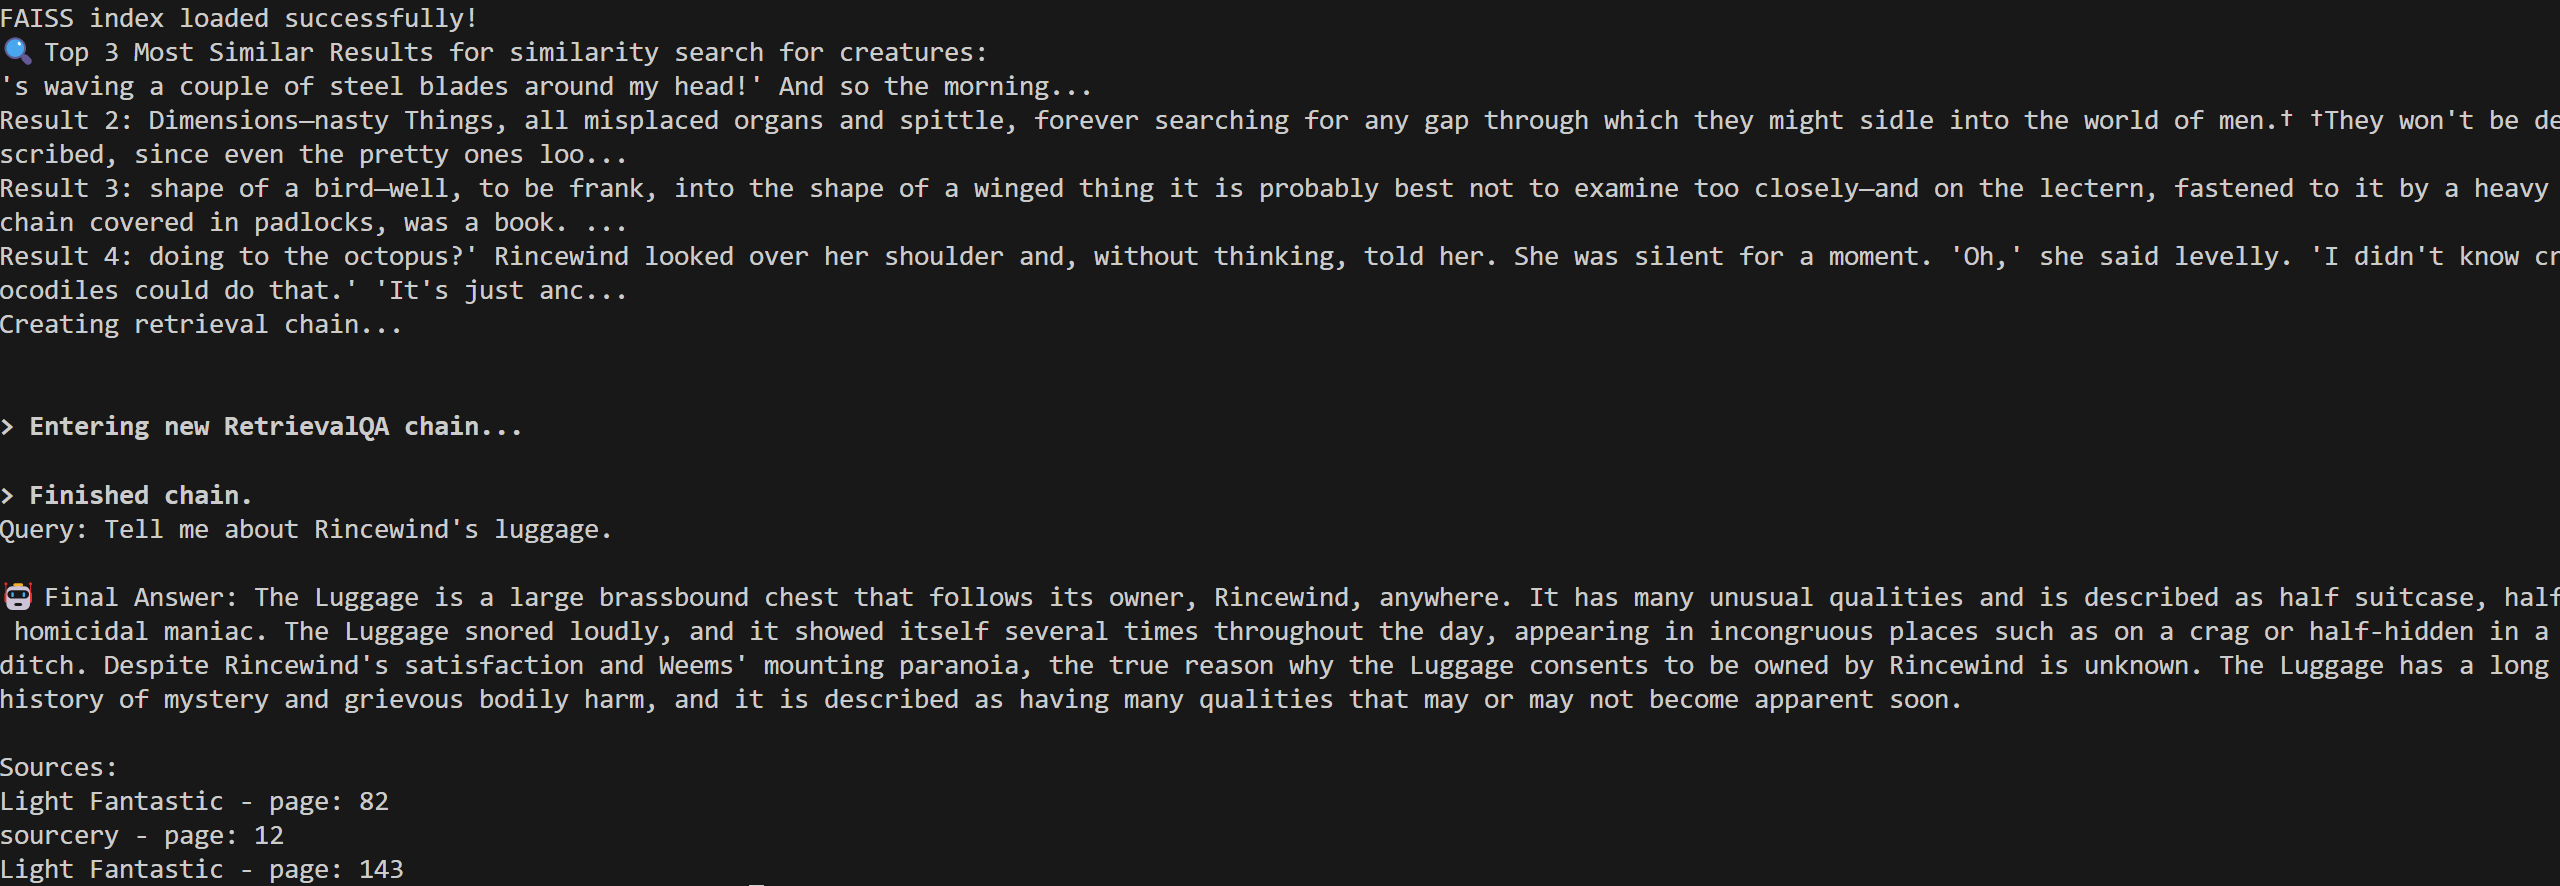
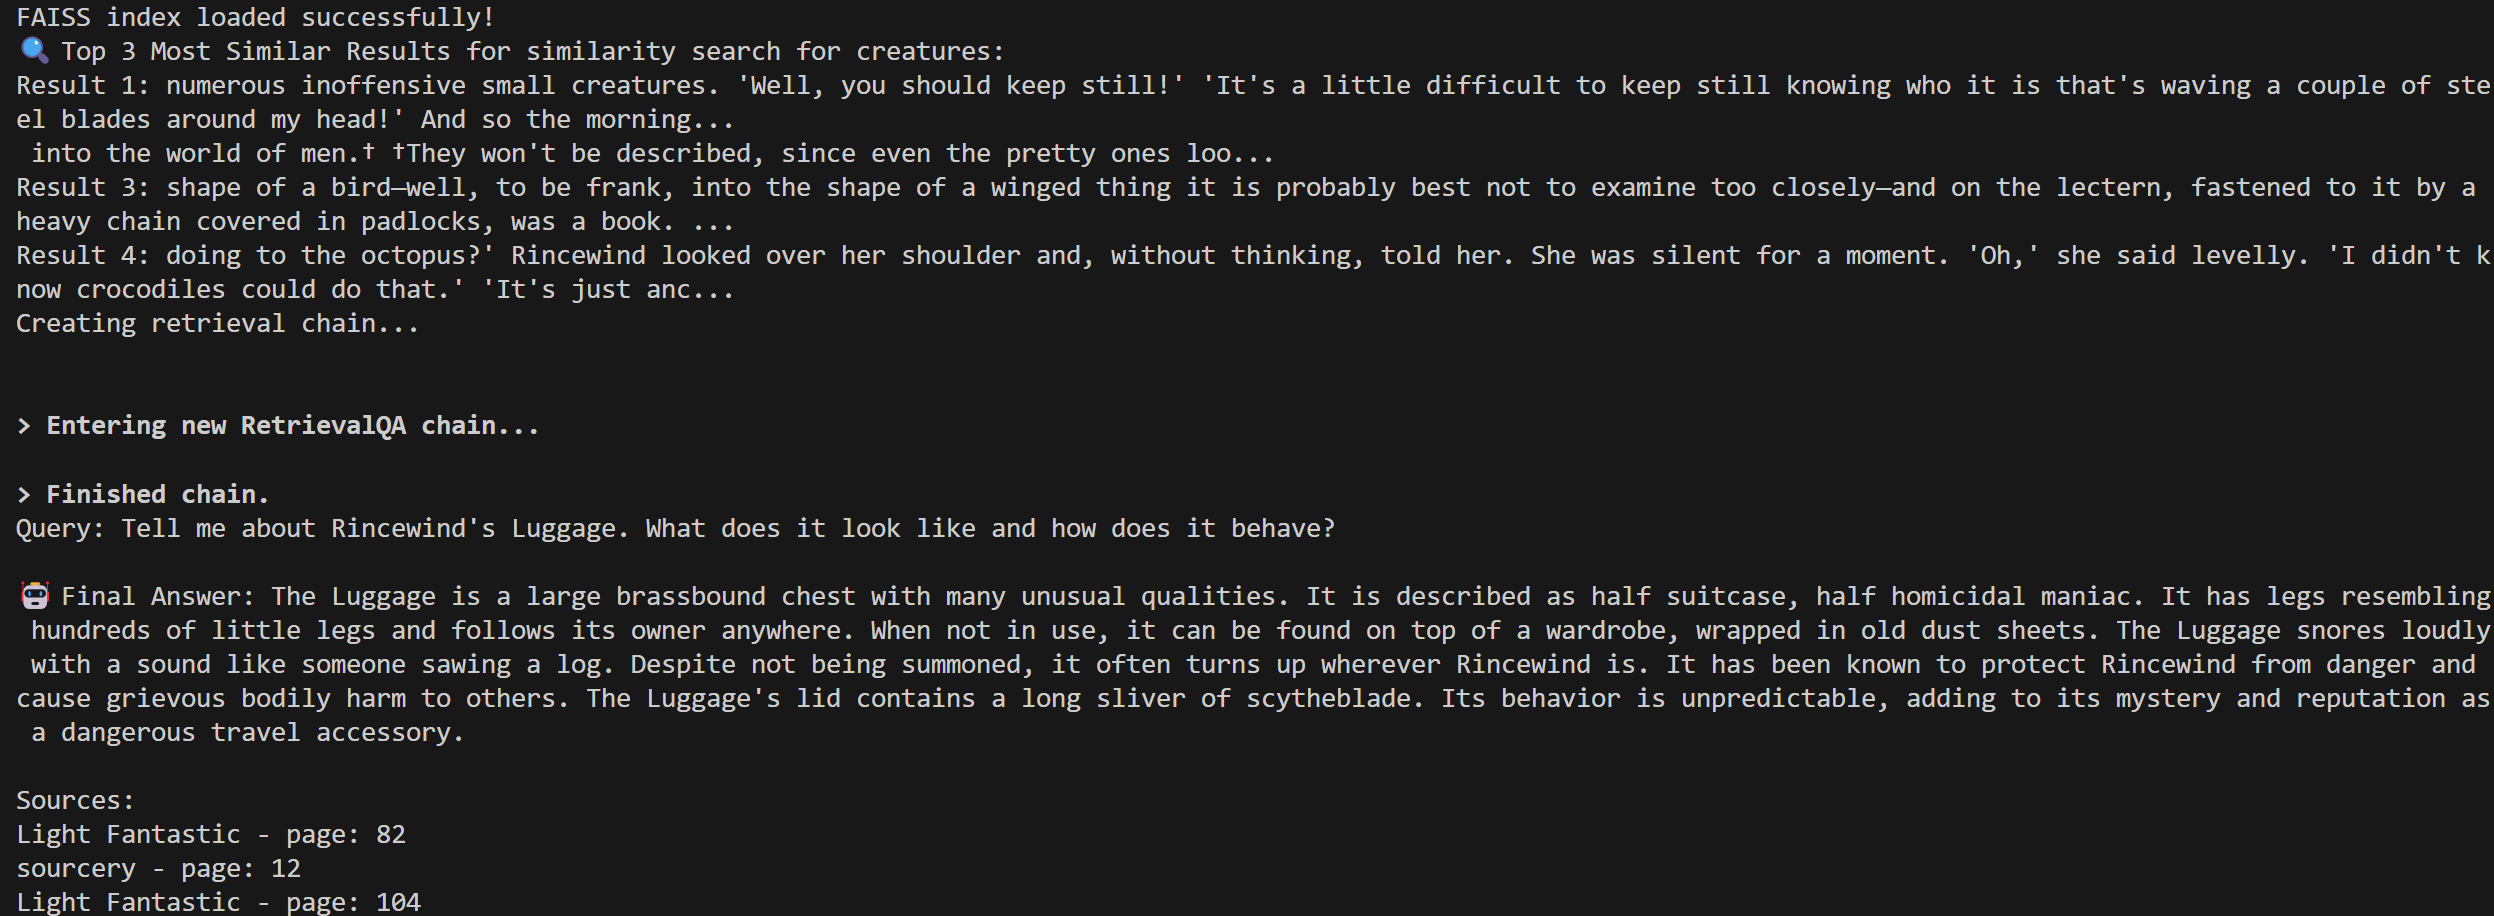
chore: test query and update output

diff --git a/src/main.py b/src/main.py
@@ -101,7 +101,7 @@ def retrieval_chain(vectordb):
         model_type="mistral",
         config={
             "gpu_layers": 20,      # gpu usage, adjust as needed
-            "temperature": 0,      
+            "temperature": 0.2,      
             "max_new_tokens": 800, # 
             "context_length": 2048, # 
             "batch_size": 16       # Adjust batch size to avoid memory issues
@@ -121,7 +121,7 @@ def retrieval_chain(vectordb):
     # # Enable caching
     # qa_chain.cache = SQLiteCache(database_path="./cache.db")
 
-    question = "Tell me about Rincewind's luggage."
+    question = "Tell me about Rincewind's Luggage. What does it look like and how does it behave?"
     
     # Retrieve context and generate the answer
     result = qa_chain.invoke({"query": question})
